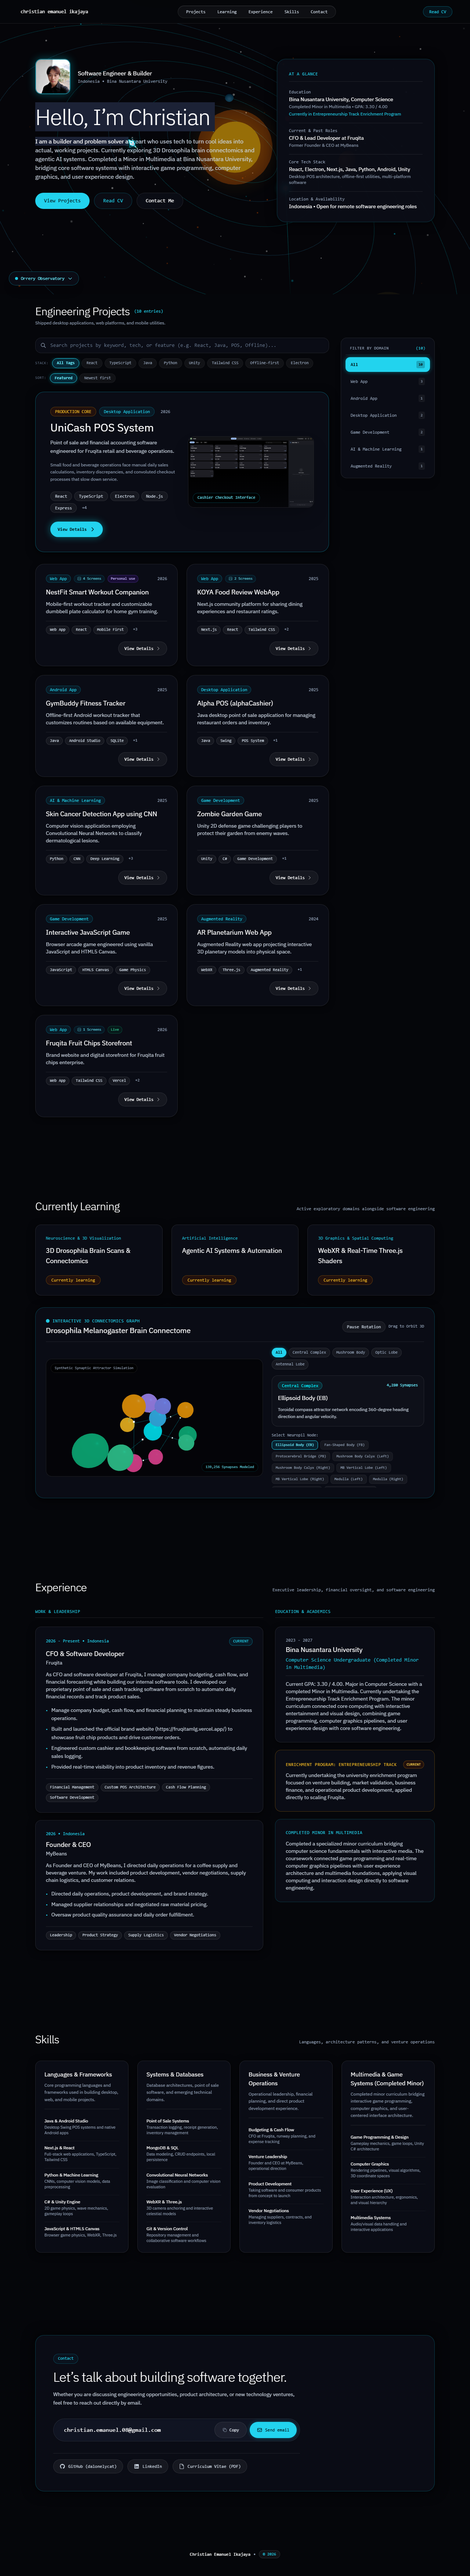
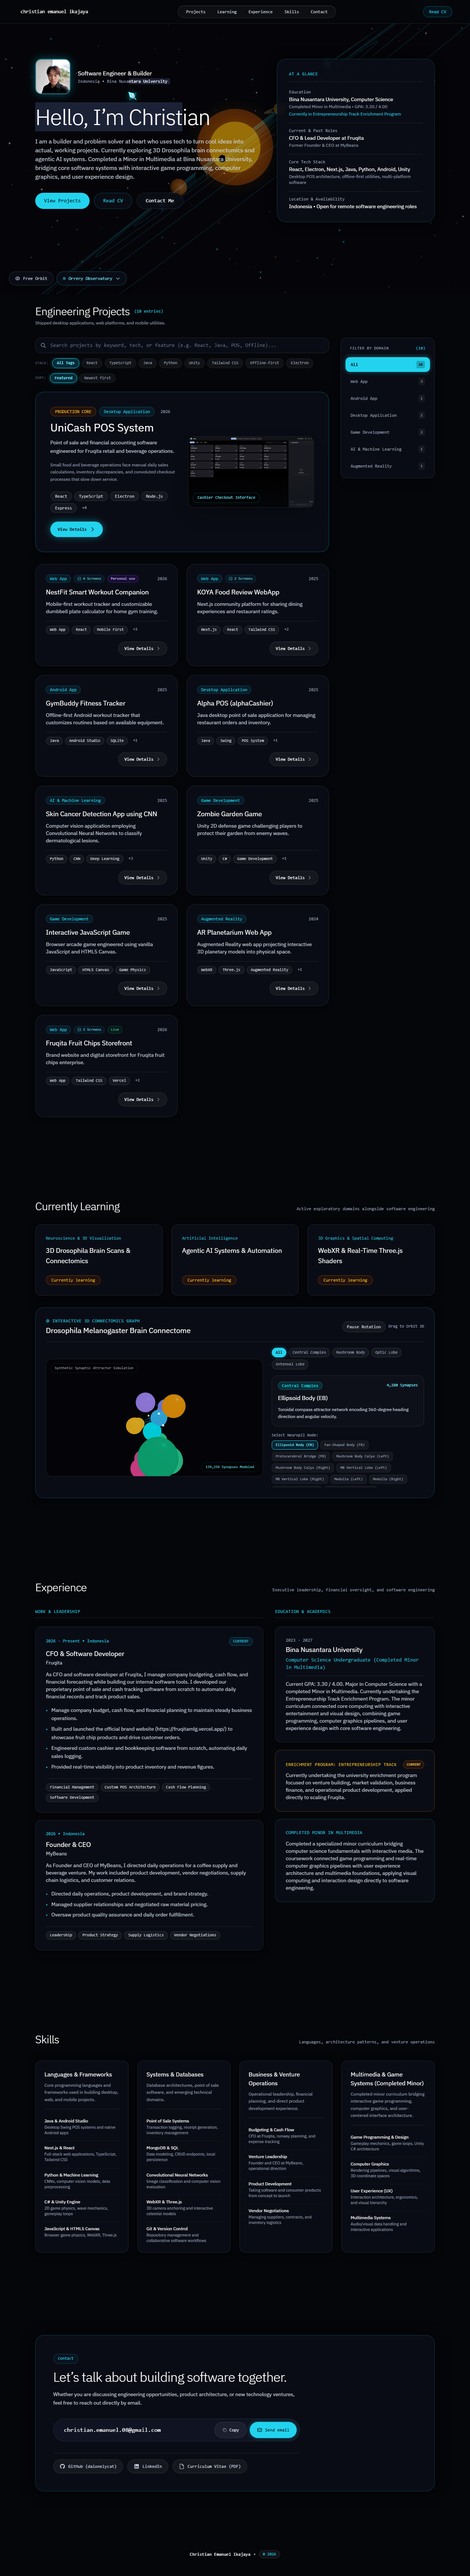
feat: isolate solar system interaction with Free Orbit mode and full connectomics event protection

diff --git a/src/components/OrreryHUD.tsx b/src/components/OrreryHUD.tsx
@@ -128,6 +128,7 @@ export const CELESTIAL_BODIES: CelestialBodyInfo[] = [
 export function OrreryHUD() {
   const [selectedBody, setSelectedBody] = useState<CelestialBodyInfo | null>(null);
   const [isMenuOpen, setIsMenuOpen] = useState(false);
+  const [isOrbitMode, setIsOrbitMode] = useState(false);
 
   useEffect(() => {
     const handleSelect = (e: Event) => {
@@ -159,8 +160,55 @@ export function OrreryHUD() {
     window.dispatchEvent(new CustomEvent("celestial-camera-reset"));
   };
 
+  const toggleOrbitMode = () => {
+    const next = !isOrbitMode;
+    setIsOrbitMode(next);
+    window.dispatchEvent(
+      new CustomEvent("celestial-orbit-mode-change", { detail: { active: next } })
+    );
+  };
+
+  const exitOrbitMode = () => {
+    setIsOrbitMode(false);
+    window.dispatchEvent(
+      new CustomEvent("celestial-orbit-mode-change", { detail: { active: false } })
+    );
+  };
+
+  useEffect(() => {
+    const handleKeyDown = (e: KeyboardEvent) => {
+      if (e.key === "Escape" && isOrbitMode) {
+        exitOrbitMode();
+      }
+    };
+    window.addEventListener("keydown", handleKeyDown);
+    return () => window.removeEventListener("keydown", handleKeyDown);
+  }, [isOrbitMode]);
+
   return (
     <>
+      {/* Floating Free Orbit Mode Notification Bar (Top Center) */}
+      {isOrbitMode && (
+        <div
+          role="status"
+          aria-live="polite"
+          className="fixed top-6 left-1/2 -translate-x-1/2 z-50 flex items-center gap-3 px-5 py-2.5 rounded-full border border-cyan-400/50 bg-[#0B0D16]/95 backdrop-blur-2xl shadow-[0_0_30px_rgba(0,240,255,0.3)] text-xs font-mono text-white animate-in fade-in slide-in-from-top-4 duration-300 no-print"
+        >
+          <span className="w-2.5 h-2.5 rounded-full bg-cyan-400 animate-ping" />
+          <span className="font-semibold text-cyan-300">Free Orbit Active</span>
+          <span className="text-slate-400 hidden sm:inline">•</span>
+          <span className="text-slate-300 hidden sm:inline">Drag anywhere to rotate camera</span>
+          <button
+            type="button"
+            onClick={exitOrbitMode}
+            className="ml-2 px-3 py-1 rounded-full bg-cyan-400 text-black font-semibold hover:bg-cyan-300 transition-colors shadow-sm"
+            aria-label="Exit Solar System Free Orbit Mode"
+          >
+            Exit Orbit (Esc)
+          </button>
+        </div>
+      )}
+
       {/* Floating Orrery Controller Pill (Bottom Left) */}
       <div className="fixed bottom-6 left-6 z-40 flex flex-col items-start gap-3 no-print">
         {/* Active Celestial Telemetry Drawer / Card */}
@@ -234,9 +282,13 @@ export function OrreryHUD() {
                 </svg>
               </a>
 
-              <span className="text-[10px] font-mono text-slate-500">
-                Left-click & drag to spin
-              </span>
+              <button
+                type="button"
+                onClick={toggleOrbitMode}
+                className="text-[10px] font-mono text-cyan-400 hover:text-cyan-300 hover:underline"
+              >
+                {isOrbitMode ? "Exit Free Orbit" : "Enter Free Orbit"}
+              </button>
             </div>
           </div>
         )}
@@ -277,7 +329,7 @@ export function OrreryHUD() {
           </div>
         )}
 
-        {/* Orrery Observatory Toggle Button */}
+        {/* Orrery Observatory & Orbit Mode Toggle Buttons */}
         <div className="flex items-center gap-2">
           {selectedBody && (
             <button
@@ -288,6 +340,24 @@ export function OrreryHUD() {
               Reset Camera
             </button>
           )}
+
+          <button
+            type="button"
+            onClick={toggleOrbitMode}
+            className={`flex items-center gap-2 text-xs font-mono px-4 py-2.5 rounded-full border backdrop-blur-2xl transition-all shadow-xl ${
+              isOrbitMode
+                ? "border-cyan-400 bg-cyan-400 text-black font-semibold shadow-[0_0_20px_rgba(0,240,255,0.4)]"
+                : "border-white/15 bg-[#0B0D16]/95 text-slate-300 hover:text-white hover:border-cyan-400/50"
+            }`}
+            aria-pressed={isOrbitMode}
+            aria-label="Toggle Free Orbit Mode to freely look around the solar system"
+          >
+            <svg className="w-3.5 h-3.5" fill="none" viewBox="0 0 24 24" stroke="currentColor">
+              <path strokeLinecap="round" strokeLinejoin="round" strokeWidth={2} d="M15 12a3 3 0 11-6 0 3 3 0 016 0z" />
+              <path strokeLinecap="round" strokeLinejoin="round" strokeWidth={2} d="M2.458 12C3.732 7.943 7.523 5 12 5c4.478 0 8.268 2.943 9.542 7-1.274 4.057-5.064 7-9.542 7-4.477 0-8.268-2.943-9.542-7z" />
+            </svg>
+            <span>{isOrbitMode ? "Exit Orbit" : "Free Orbit"}</span>
+          </button>
 
           <button
             type="button"

diff --git a/src/components/SolarSystemBackground.tsx b/src/components/SolarSystemBackground.tsx
@@ -471,6 +471,7 @@ export function SolarSystemBackground() {
 
     let isWarping = false;
     let warpSpeed = 1.0;
+    let isOrbitMode = false;
 
     const handleFlyTo = (e: Event) => {
       const customEvent = e as CustomEvent<{ name: string }>;
@@ -484,10 +485,21 @@ export function SolarSystemBackground() {
     const handleWarpStart = () => { isWarping = true; };
     const handleWarpEnd = () => { isWarping = false; };
 
+    const handleOrbitModeChange = (e: Event) => {
+      const customEvent = e as CustomEvent<{ active: boolean }>;
+      isOrbitMode = Boolean(customEvent.detail?.active);
+      if (!isOrbitMode) {
+        isDragging = false;
+        velocityTheta = 0;
+        velocityPhi = 0;
+      }
+    };
+
     window.addEventListener("celestial-camera-fly", handleFlyTo);
     window.addEventListener("celestial-camera-reset", handleResetOrbit);
     window.addEventListener("rocket-hyperdrive-start", handleWarpStart);
     window.addEventListener("rocket-hyperdrive-end", handleWarpEnd);
+    window.addEventListener("celestial-orbit-mode-change", handleOrbitModeChange);
 
     let isDragging = false;
     let lastPointerX = 0;
@@ -498,13 +510,19 @@ export function SolarSystemBackground() {
     const isInteractiveElement = (target: EventTarget | null): boolean => {
       if (!(target instanceof Element)) return false;
       return !!target.closest(
-        'a, button, input, textarea, select, [role="button"], [role="dialog"], [role="menuitem"], summary, pre, code'
+        'a, button, input, textarea, select, [role="button"], [role="dialog"], [role="menuitem"], summary, pre, code, [data-connectomics], #learning'
       );
     };
 
     const handlePointerDown = (e: PointerEvent) => {
+      // Strictly disabled during normal browsing to keep scrolling and page interaction 100% clean
+      if (!isOrbitMode) return;
+      if (e.pointerType === "touch") return; // Touch scrolling on mobile never moves solar system
       if (e.button !== 0) return; // Only primary left click
       if (isInteractiveElement(e.target)) return; // Never block UI buttons, links, or modals
+
+      // Release any previously focused celestial body so the user can look around freely
+      targetBodyName = null;
 
       downPointerX = e.clientX;
       downPointerY = e.clientY;
@@ -516,7 +534,7 @@ export function SolarSystemBackground() {
     };
 
     const handlePointerMove = (e: PointerEvent) => {
-      if (!isDragging) return;
+      if (!isOrbitMode || !isDragging) return;
 
       const dx = e.clientX - lastPointerX;
       const dy = e.clientY - lastPointerY;
@@ -534,9 +552,10 @@ export function SolarSystemBackground() {
     };
 
     const handlePointerUp = (e: PointerEvent) => {
+      if (!isOrbitMode) return;
       isDragging = false;
 
-      // Click detection: raycast to select clicked celestial body
+      // Click detection in Orbit Mode: raycast to select clicked celestial body
       if (Math.hypot(e.clientX - downPointerX, e.clientY - downPointerY) < 6) {
         if (!isInteractiveElement(e.target)) {
           mouseVec.x = (e.clientX / window.innerWidth) * 2 - 1;
@@ -754,6 +773,7 @@ export function SolarSystemBackground() {
       window.removeEventListener("celestial-camera-reset", handleResetOrbit);
       window.removeEventListener("rocket-hyperdrive-start", handleWarpStart);
       window.removeEventListener("rocket-hyperdrive-end", handleWarpEnd);
+      window.removeEventListener("celestial-orbit-mode-change", handleOrbitModeChange);
 
       if (container && renderer.domElement) {
         container.removeChild(renderer.domElement);

diff --git a/src/components/ConnectomicsViewer.tsx b/src/components/ConnectomicsViewer.tsx
@@ -332,6 +332,7 @@ export function ConnectomicsViewer() {
     let rotVelY = 0;
 
     const onPointerDown = (e: PointerEvent) => {
+      e.stopPropagation();
       isDragging = true;
       prevX = e.clientX;
       prevY = e.clientY;
@@ -341,6 +342,7 @@ export function ConnectomicsViewer() {
 
     const onPointerMove = (e: PointerEvent) => {
       if (!isDragging) return;
+      e.stopPropagation();
       const dx = e.clientX - prevX;
       const dy = e.clientY - prevY;
       prevX = e.clientX;
@@ -353,14 +355,19 @@ export function ConnectomicsViewer() {
       rotVelX = dy * 0.008;
     };
 
-    const onPointerUp = () => {
-      isDragging = false;
+    const onPointerUp = (e?: PointerEvent) => {
+      if (isDragging) {
+        e?.stopPropagation();
+        isDragging = false;
+      }
     };
 
     const domEl = renderer.domElement;
+    domEl.style.touchAction = "none";
     domEl.addEventListener("pointerdown", onPointerDown);
     window.addEventListener("pointermove", onPointerMove);
     window.addEventListener("pointerup", onPointerUp);
+    window.addEventListener("pointercancel", onPointerUp);
 
     // Animation Loop
     let animId: number;
@@ -423,6 +430,7 @@ export function ConnectomicsViewer() {
       domEl.removeEventListener("pointerdown", onPointerDown);
       window.removeEventListener("pointermove", onPointerMove);
       window.removeEventListener("pointerup", onPointerUp);
+      window.removeEventListener("pointercancel", onPointerUp);
       window.removeEventListener("resize", onResize);
       renderer.dispose();
     };
@@ -436,7 +444,10 @@ export function ConnectomicsViewer() {
       : NEUROPIL_NODES.filter((n) => n.circuit === activeCircuit);
 
   return (
-    <div className="rounded-3xl border border-cyan-500/30 bg-[#0B0D16]/95 backdrop-blur-2xl p-6 sm:p-7 shadow-[0_4px_25px_rgba(0,0,0,0.8)]">
+    <div
+      data-connectomics="true"
+      className="rounded-3xl border border-cyan-500/30 bg-[#0B0D16]/95 backdrop-blur-2xl p-6 sm:p-7 shadow-[0_4px_25px_rgba(0,0,0,0.8)]"
+    >
       {/* Visualizer Header */}
       <div className="flex flex-wrap items-center justify-between gap-3 mb-4 pb-4 border-b border-white/10">
         <div>
@@ -470,7 +481,7 @@ export function ConnectomicsViewer() {
         {/* Left: 3D Interactive WebGL Brain Canvas */}
         <div className="lg:col-span-7">
           <div className="relative w-full h-[320px] rounded-2xl overflow-hidden border border-white/10 bg-black/60 shadow-inner flex items-center justify-center">
-            <div ref={containerRef} className="w-full h-full cursor-grab active:cursor-grabbing" />
+            <div ref={containerRef} className="w-full h-full cursor-grab active:cursor-grabbing touch-none" />
             
             {/* Visualizer Watermark overlay */}
             <div className="absolute top-3 left-3 text-[10px] font-mono text-slate-400 bg-black/70 px-2.5 py-1 rounded-full border border-white/10 backdrop-blur-md pointer-events-none">
